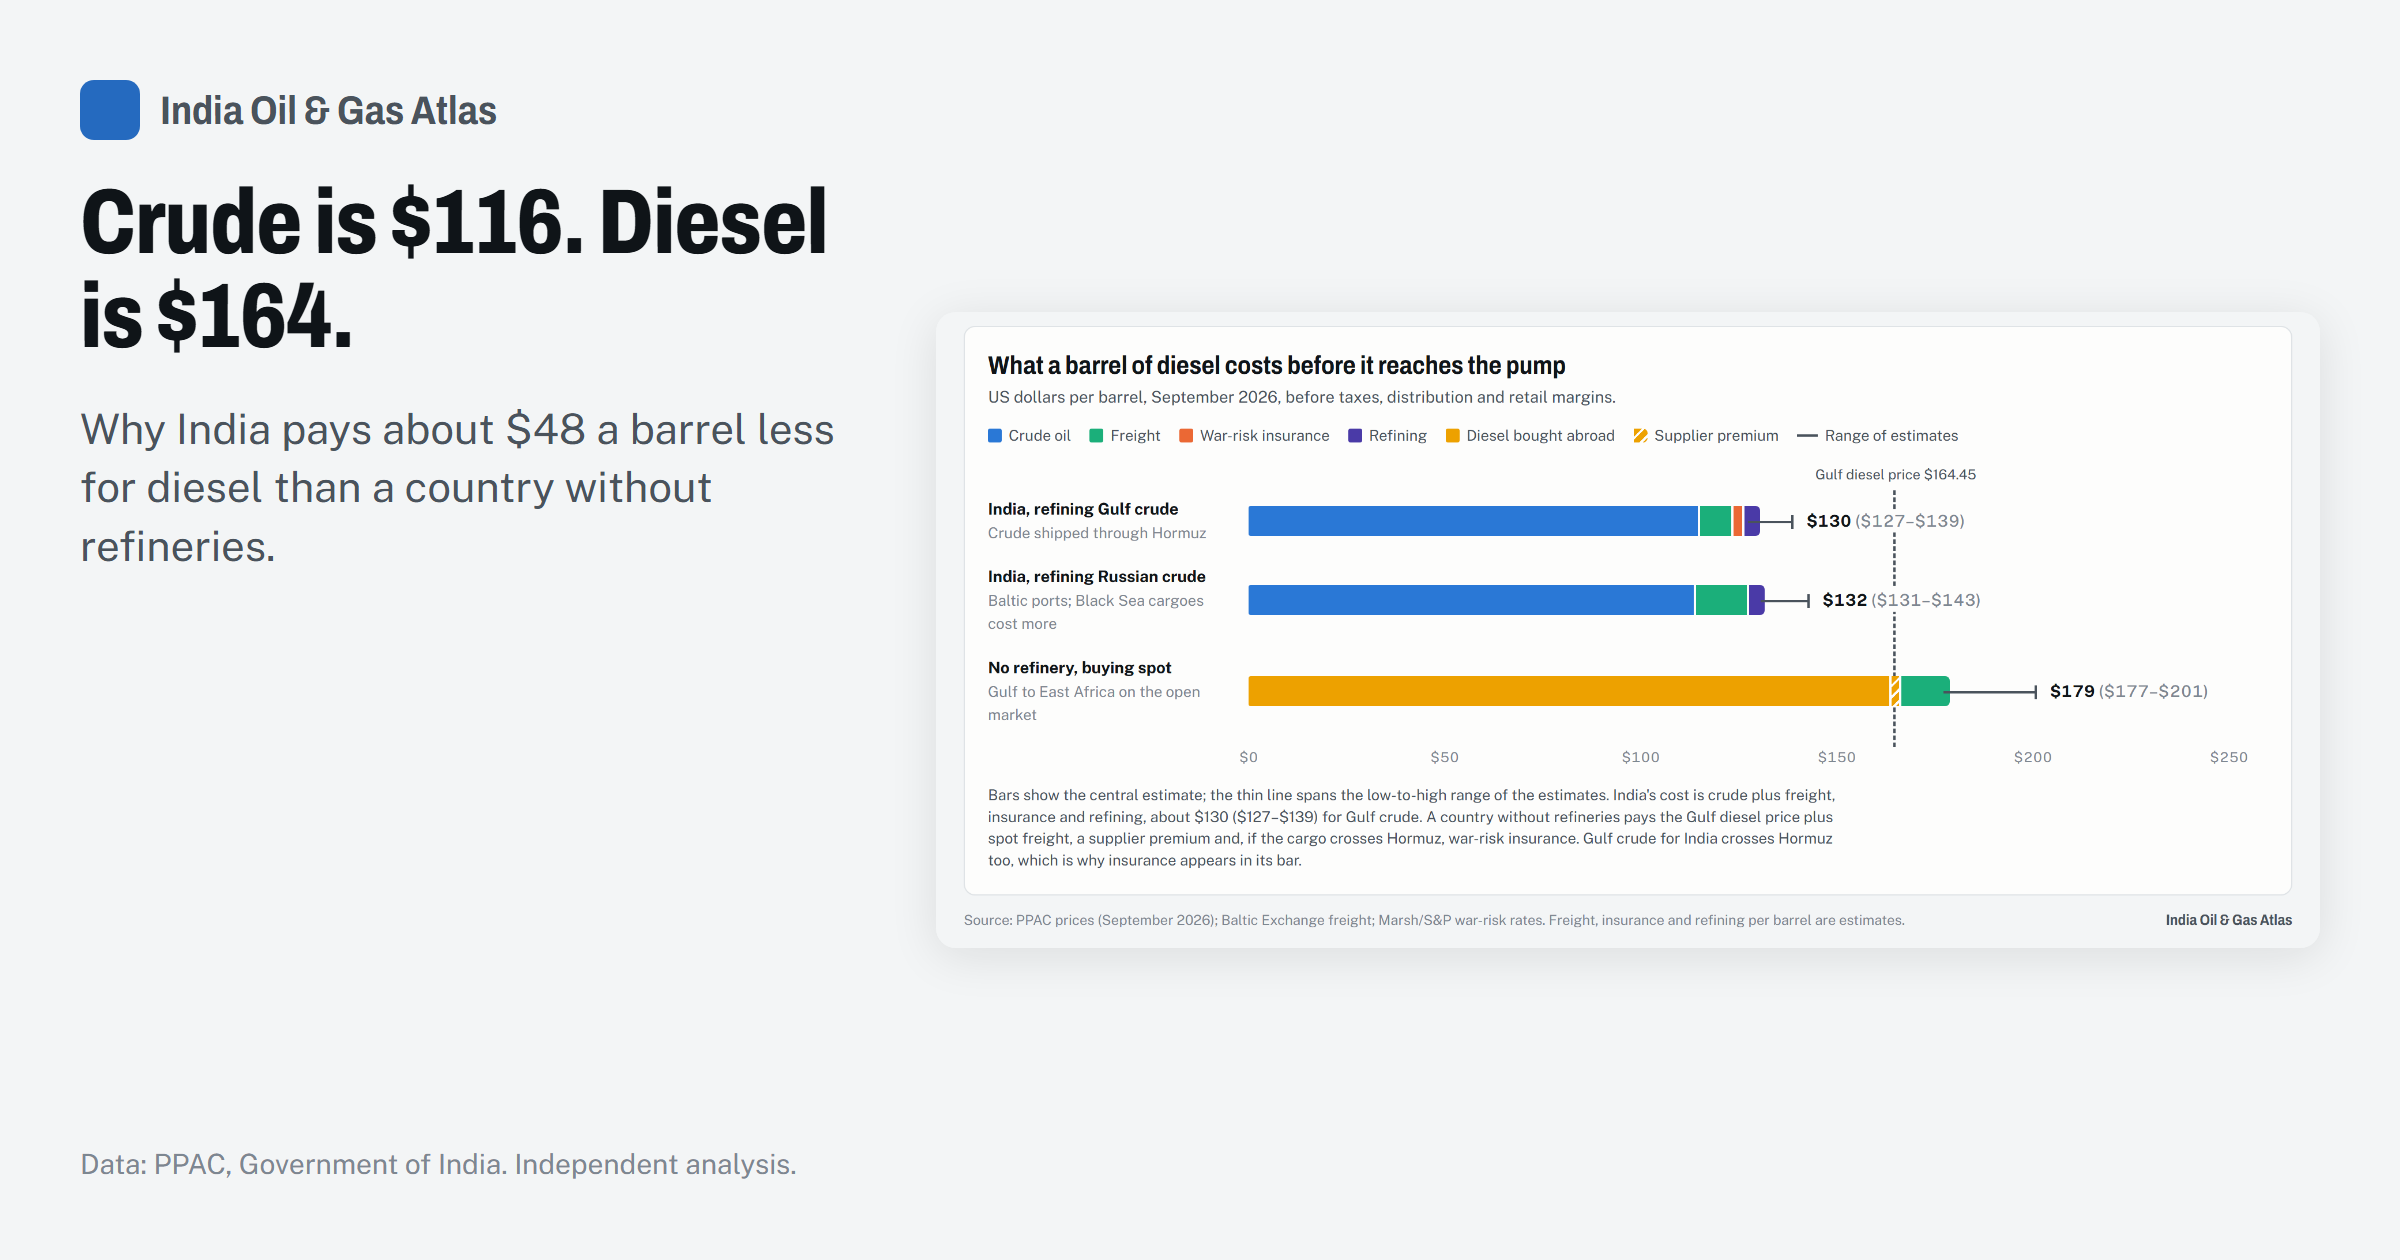
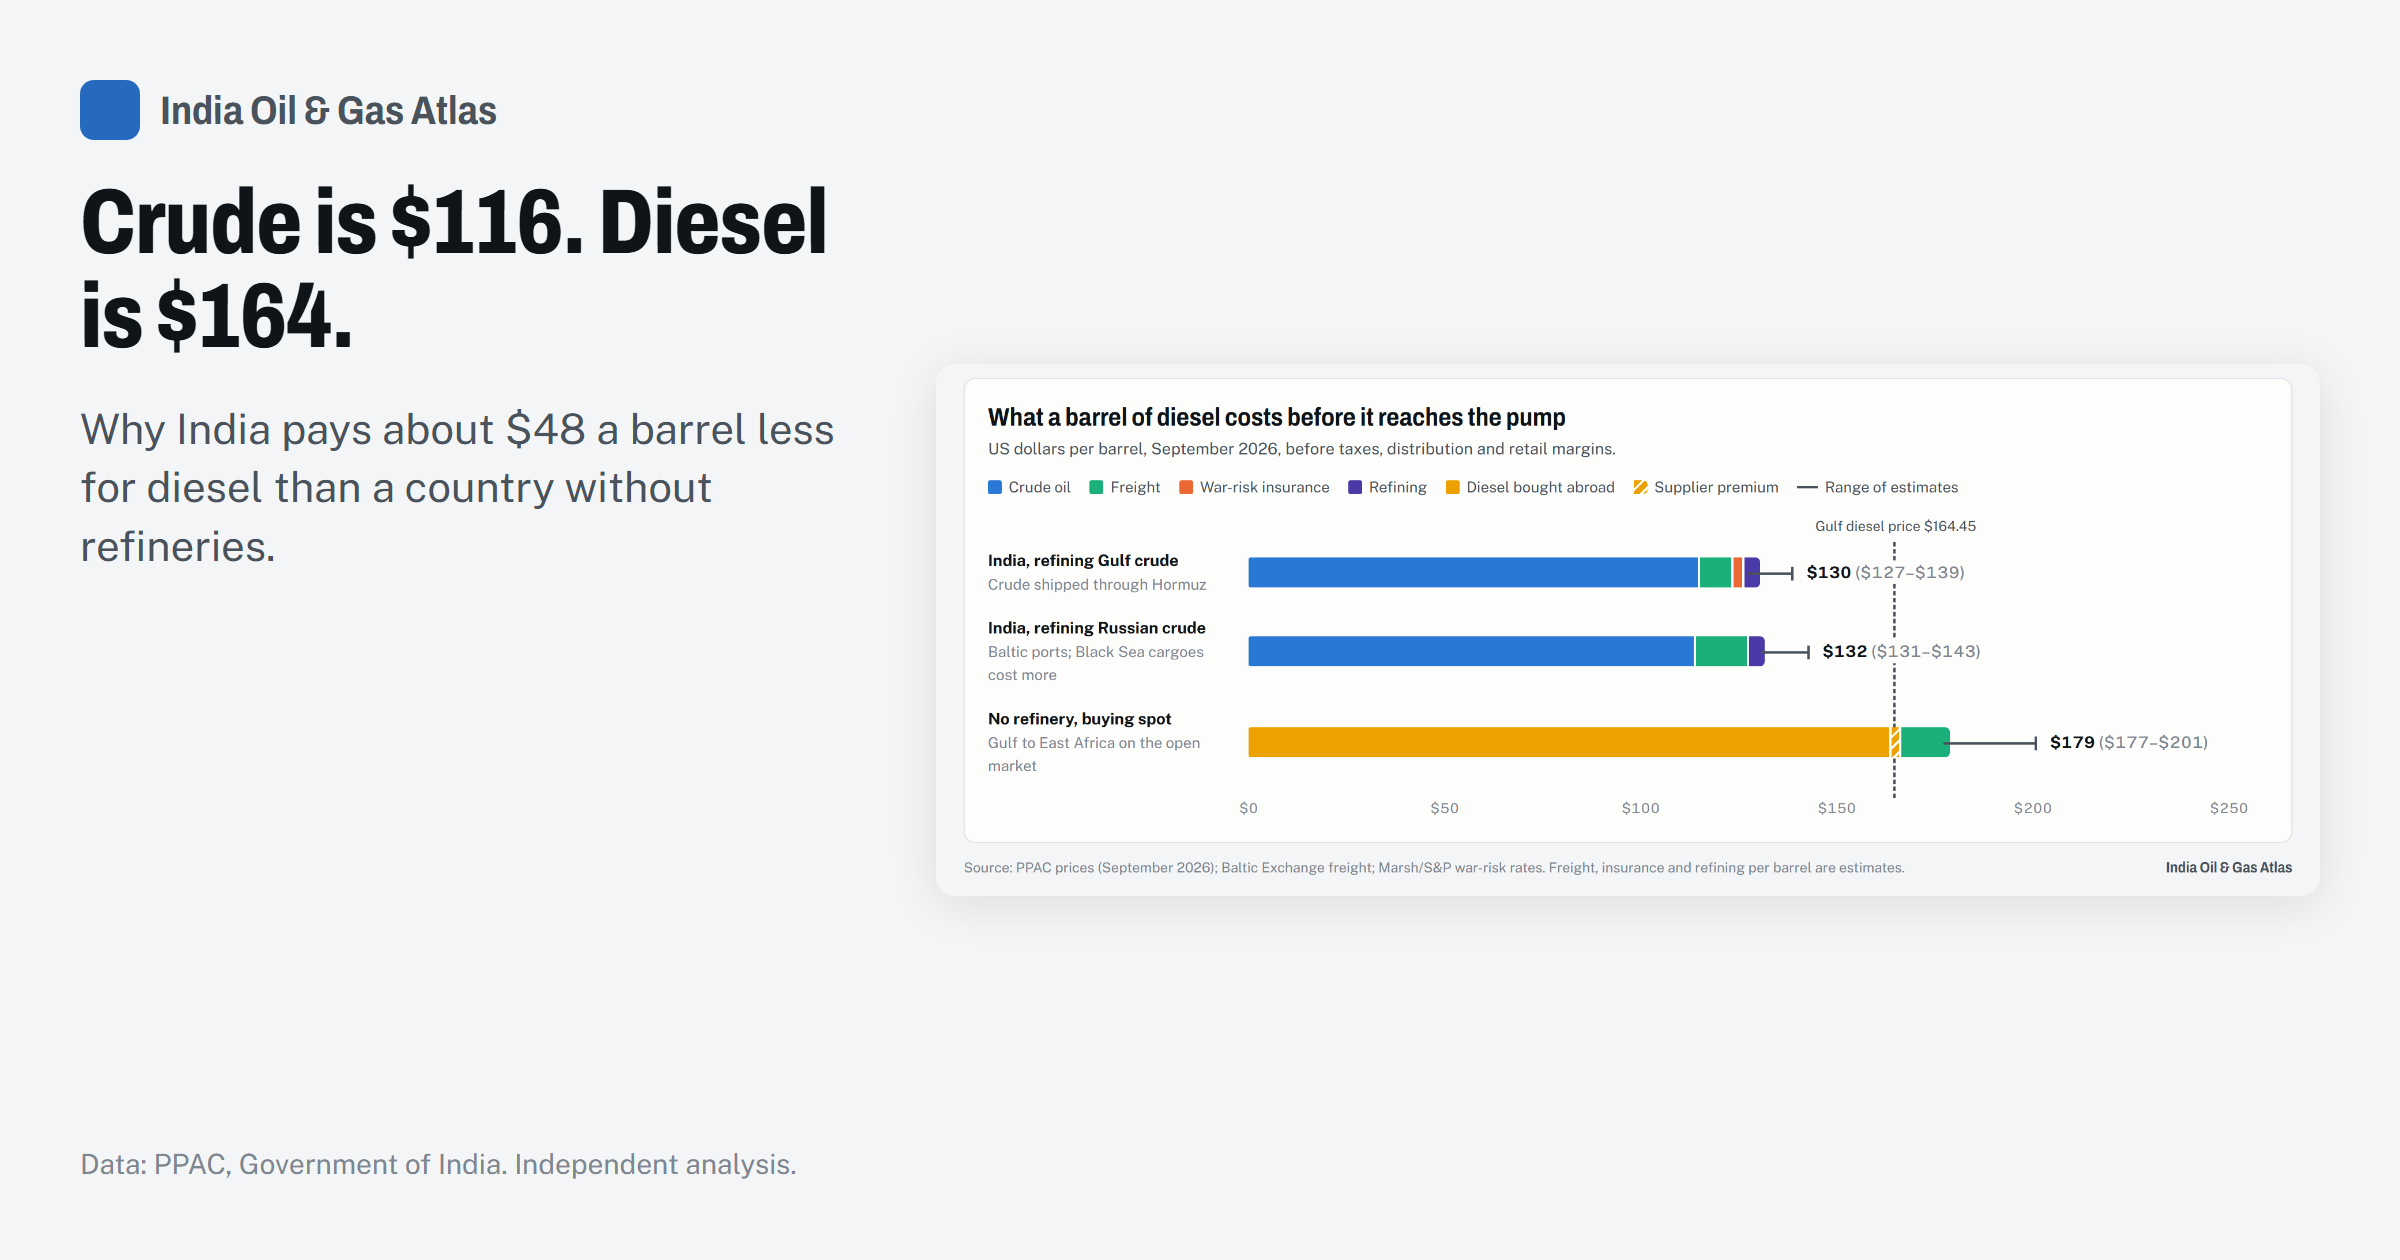
Chart images without explanations; full refinery ranking

diff --git a/index.html b/index.html
@@ -114,7 +114,8 @@
 .more:hover { background: var(--accent-soft); }
 html.static .grid { grid-template-columns: minmax(0, 1.5fr) minmax(0, 1fr); }
 html.static #map { max-height: 640px; }
-html.static .balnums, html.static .balnote { display: none; }
+/* Images carry the chart only; the explanation goes in the post. */
+html.static .balnums, html.static .balnote, html.static #ballead, html.static #msub, html.static .ranknote { display: none !important; }
 
 .balance { padding: 20px 20px 16px; display: flex; flex-direction: column; gap: 12px; }
 .balance h2 { margin: 0; font-family: var(--display); font-stretch: 85%; font-weight: 700; font-size: 24px; line-height: 1.15; text-wrap: balance; }
@@ -470,7 +471,8 @@ $("statecard").addEventListener("click", (e) => { const b = e.target.closest(".s
 
 function renderRank() {
   const list = M.sorted.filter((n) => M.vals[n] > 0);
-  let shown = state.showAll ? list : list.slice(0, 10);
+  // Images show every state when the list is short (refineries: 15), otherwise the top 10.
+  let shown = state.showAll || (EMBED.isStatic && list.length <= 15) ? list : list.slice(0, 10);
   if (!state.showAll && list.includes(state.region) && !shown.includes(state.region)) shown = [...shown, state.region];
   const max = M.vals[list[0]] || 1;
   $("rankunit").textContent = M.m.unitLong;

diff --git a/diesel-cost.html b/diesel-cost.html
@@ -64,6 +64,7 @@
 .reflabel { position: absolute; top: -22px; transform: translateX(-50%); line-height: 16px; font-size: 12px; color: var(--ink-2); white-space: nowrap; background: var(--surface); padding: 0 4px; }
 .plot { position: relative; padding-top: 30px; }
 .chartnote { margin: 0; font-size: 13px; color: var(--ink-2); max-width: 95ch; }
+html.static .chartnote { display: none; }
 
 /* Change dot plot, log scale */
 .changes { display: flex; flex-direction: column; gap: 10px; }
